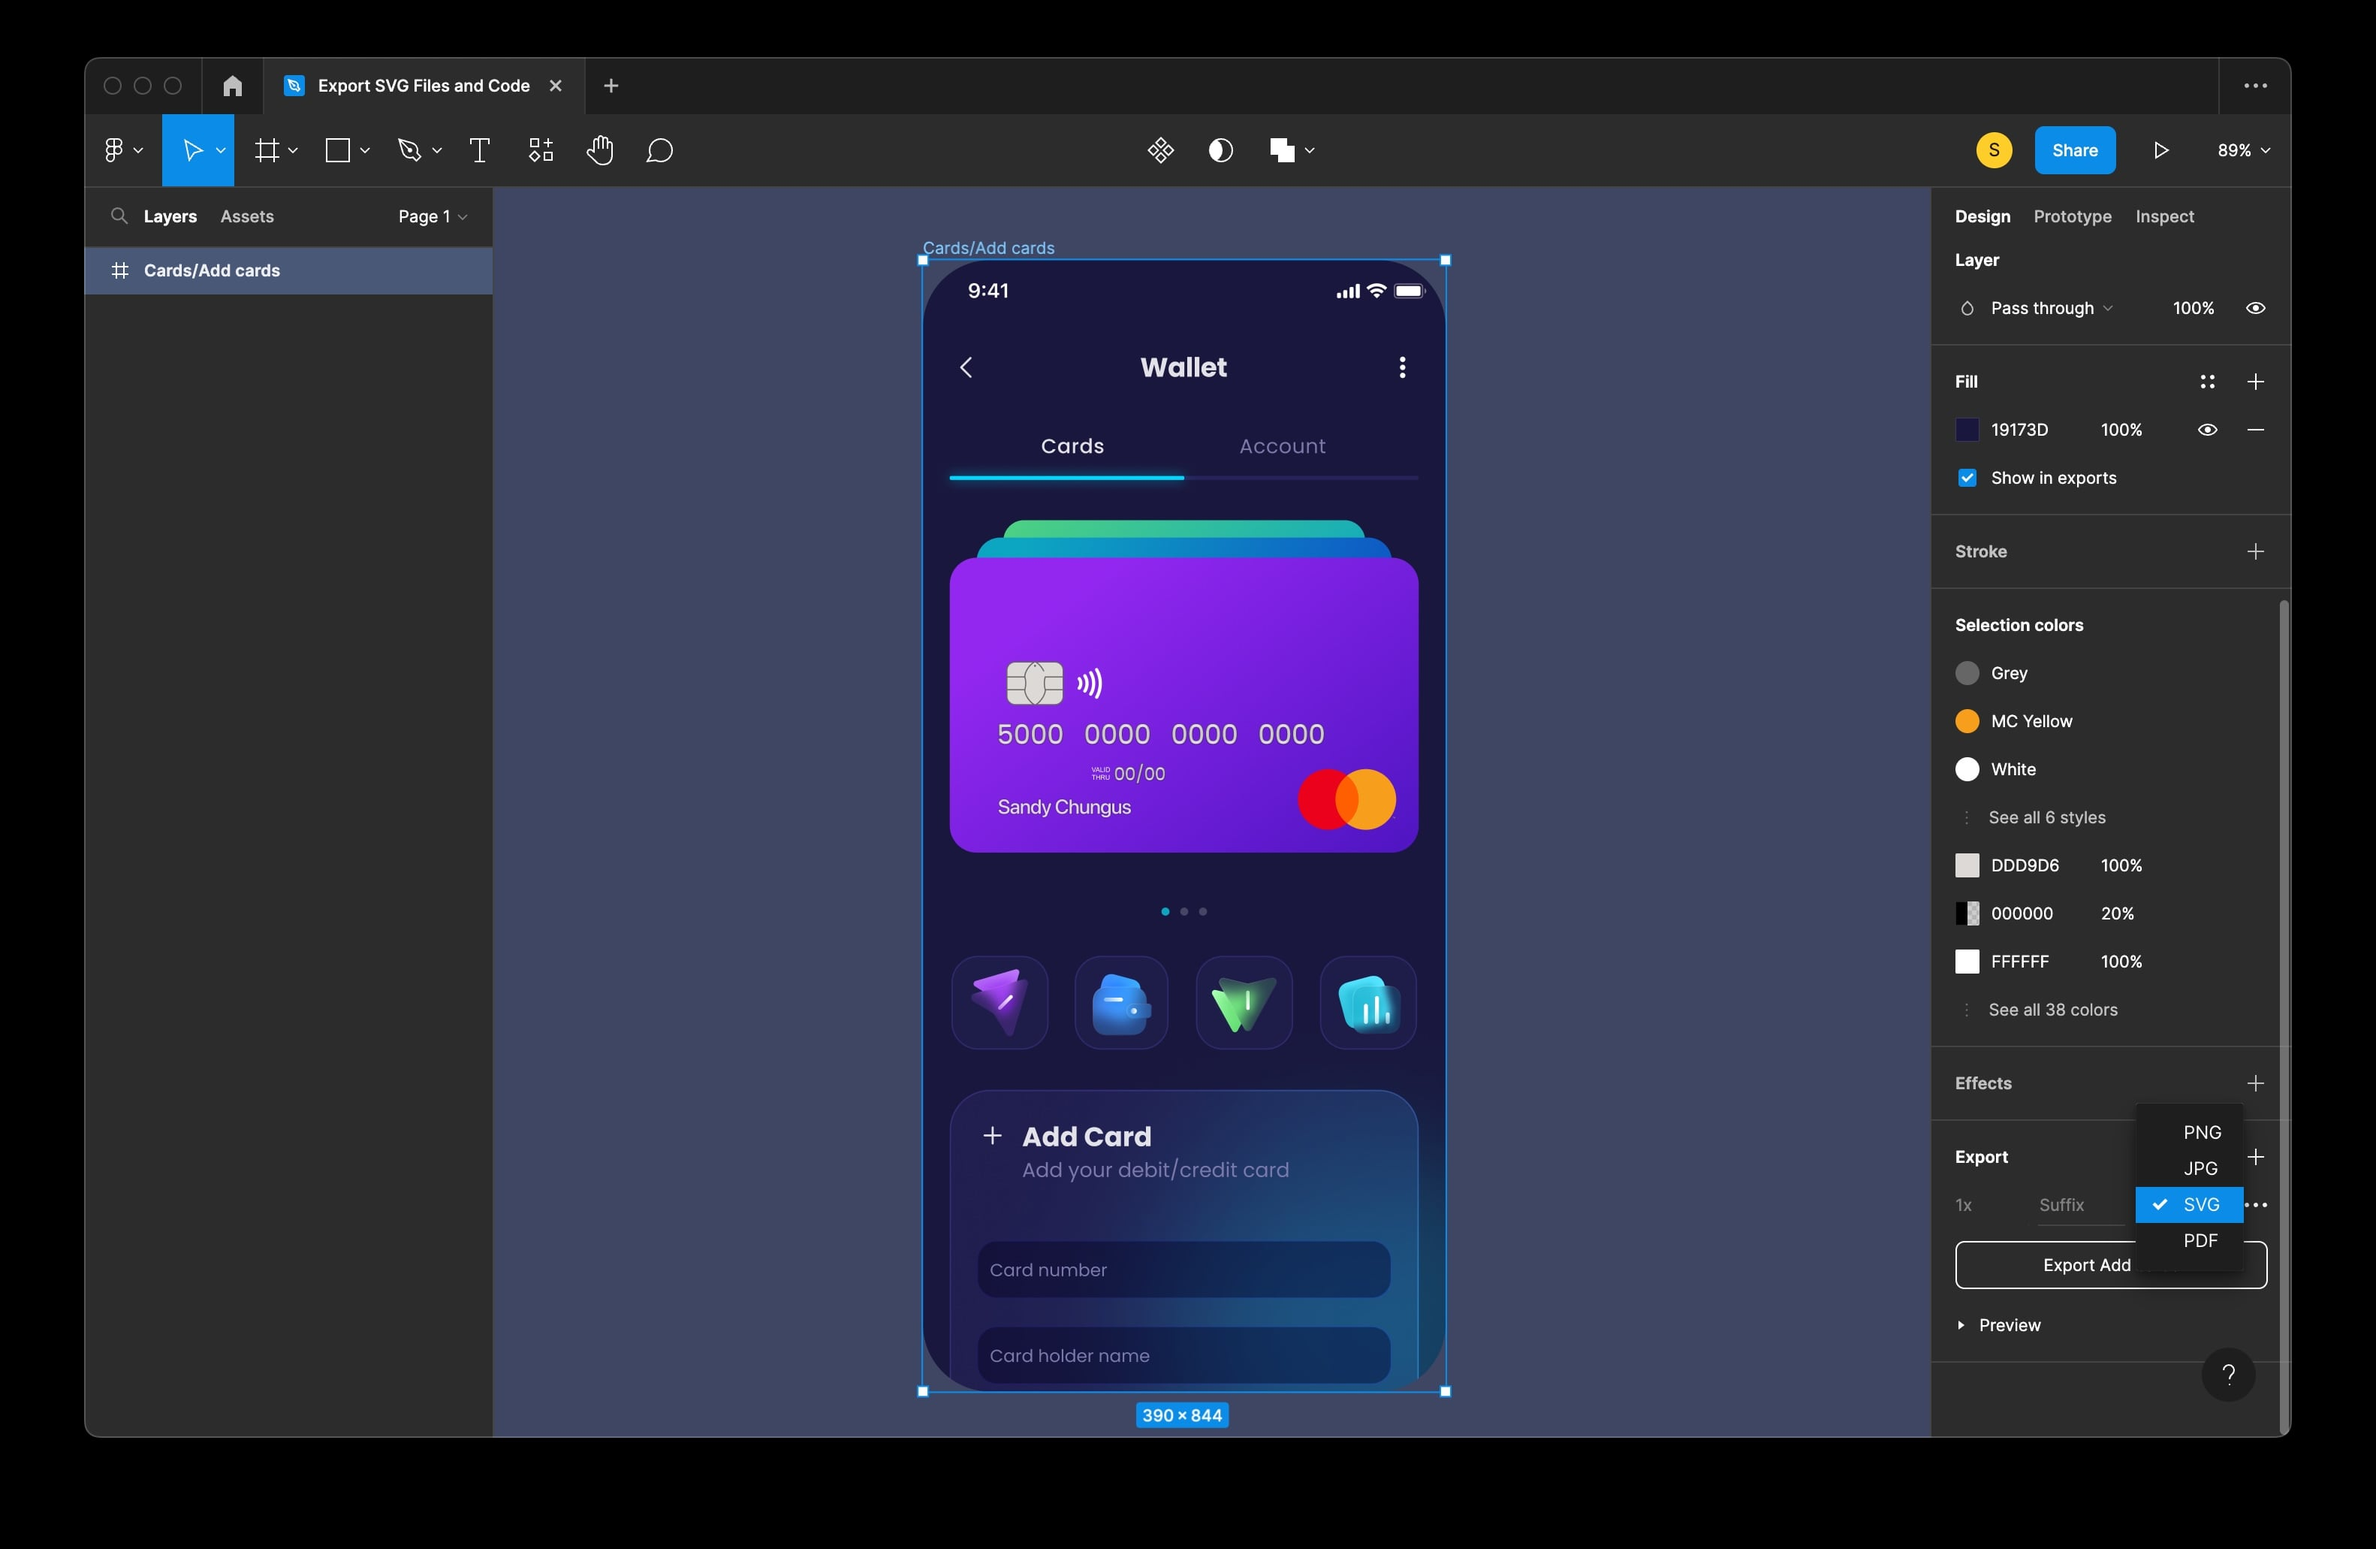
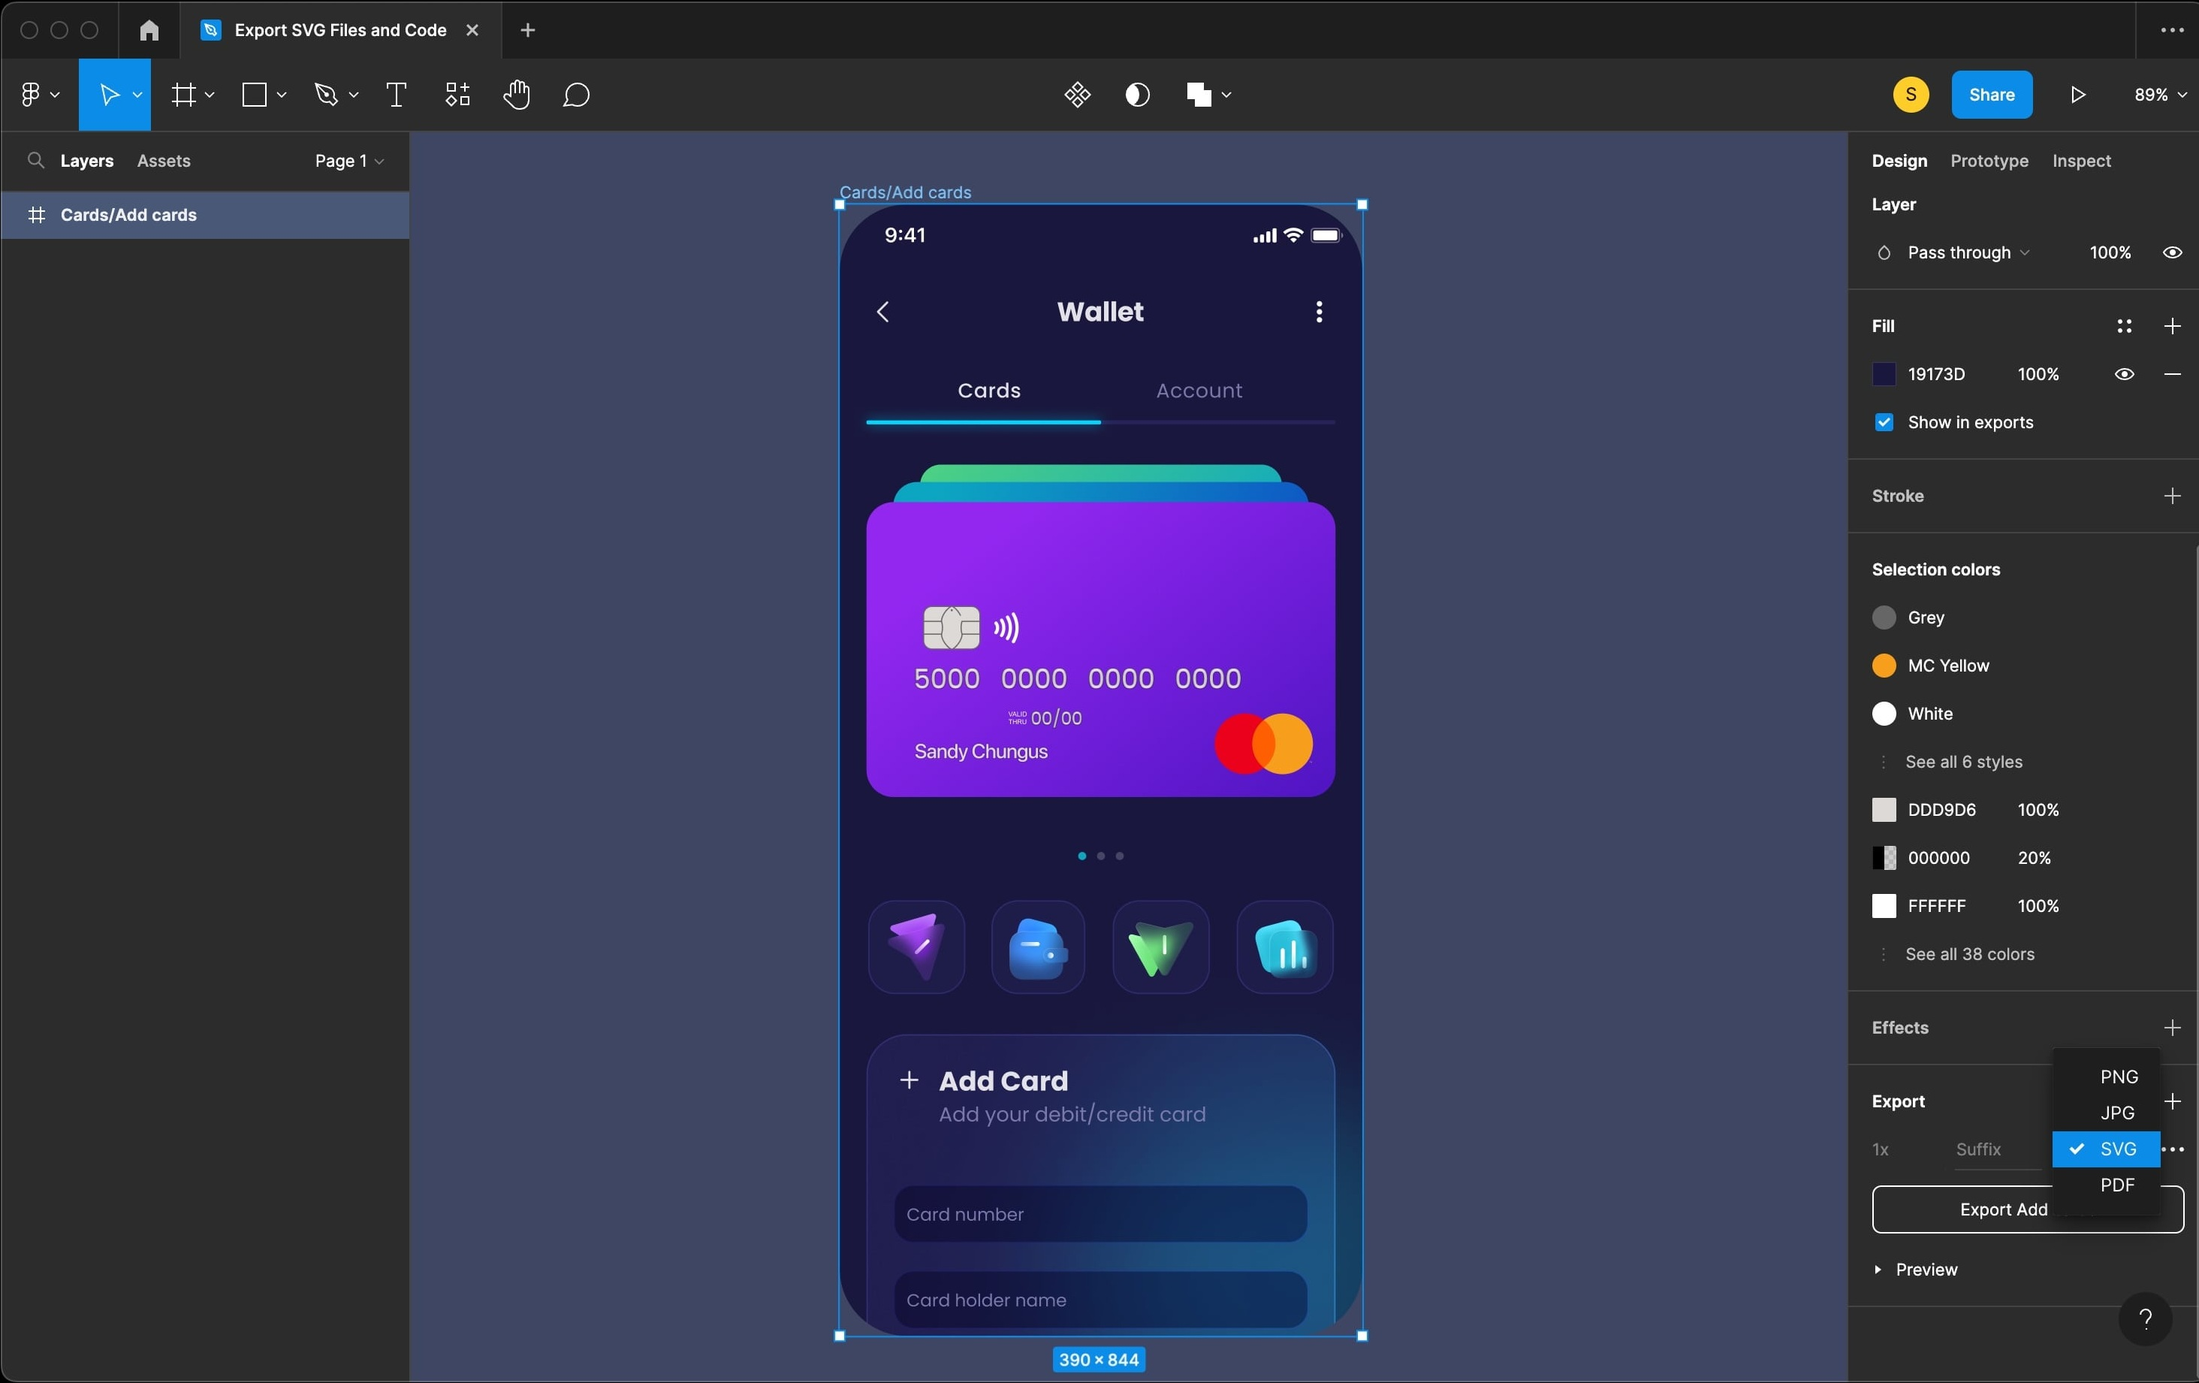
Update figma image

diff --git a/app/page.tsx b/app/page.tsx
@@ -107,16 +107,16 @@ export default function LandingPage() {
         <div className="container mx-auto max-w-6xl">
           <div className="grid grid-cols-1 md:grid-cols-2 gap-12 items-center">
           <div className="order-2 md:order-1 w-full">
-            <div className="relative w-full aspect-[4/3] rounded-xl overflow-hidden shadow-xl">
-              <Image 
-                src="/svg_figma.jpg" 
-                alt="Exporting from Figma" 
-                fill 
-                className="object-cover" 
-                sizes="(max-width: 768px) 100vw, 50vw"
-                priority
-              />
-            </div>
+          <div className="relative w-full aspect-[2928/1841] rounded-xl overflow-hidden shadow-xl">
+            <Image 
+              src="/svg_figma.jpg"
+              alt="Exporting from Figma"
+              fill
+              className="object-contain" 
+              sizes="(max-width: 768px) 100vw, 50vw"
+              priority
+            />
+          </div>
           </div>
             <div className="space-y-6 order-1 md:order-2">
               <h2 className="text-3xl md:text-5xl font-bold">Exporting from Figma</h2>
